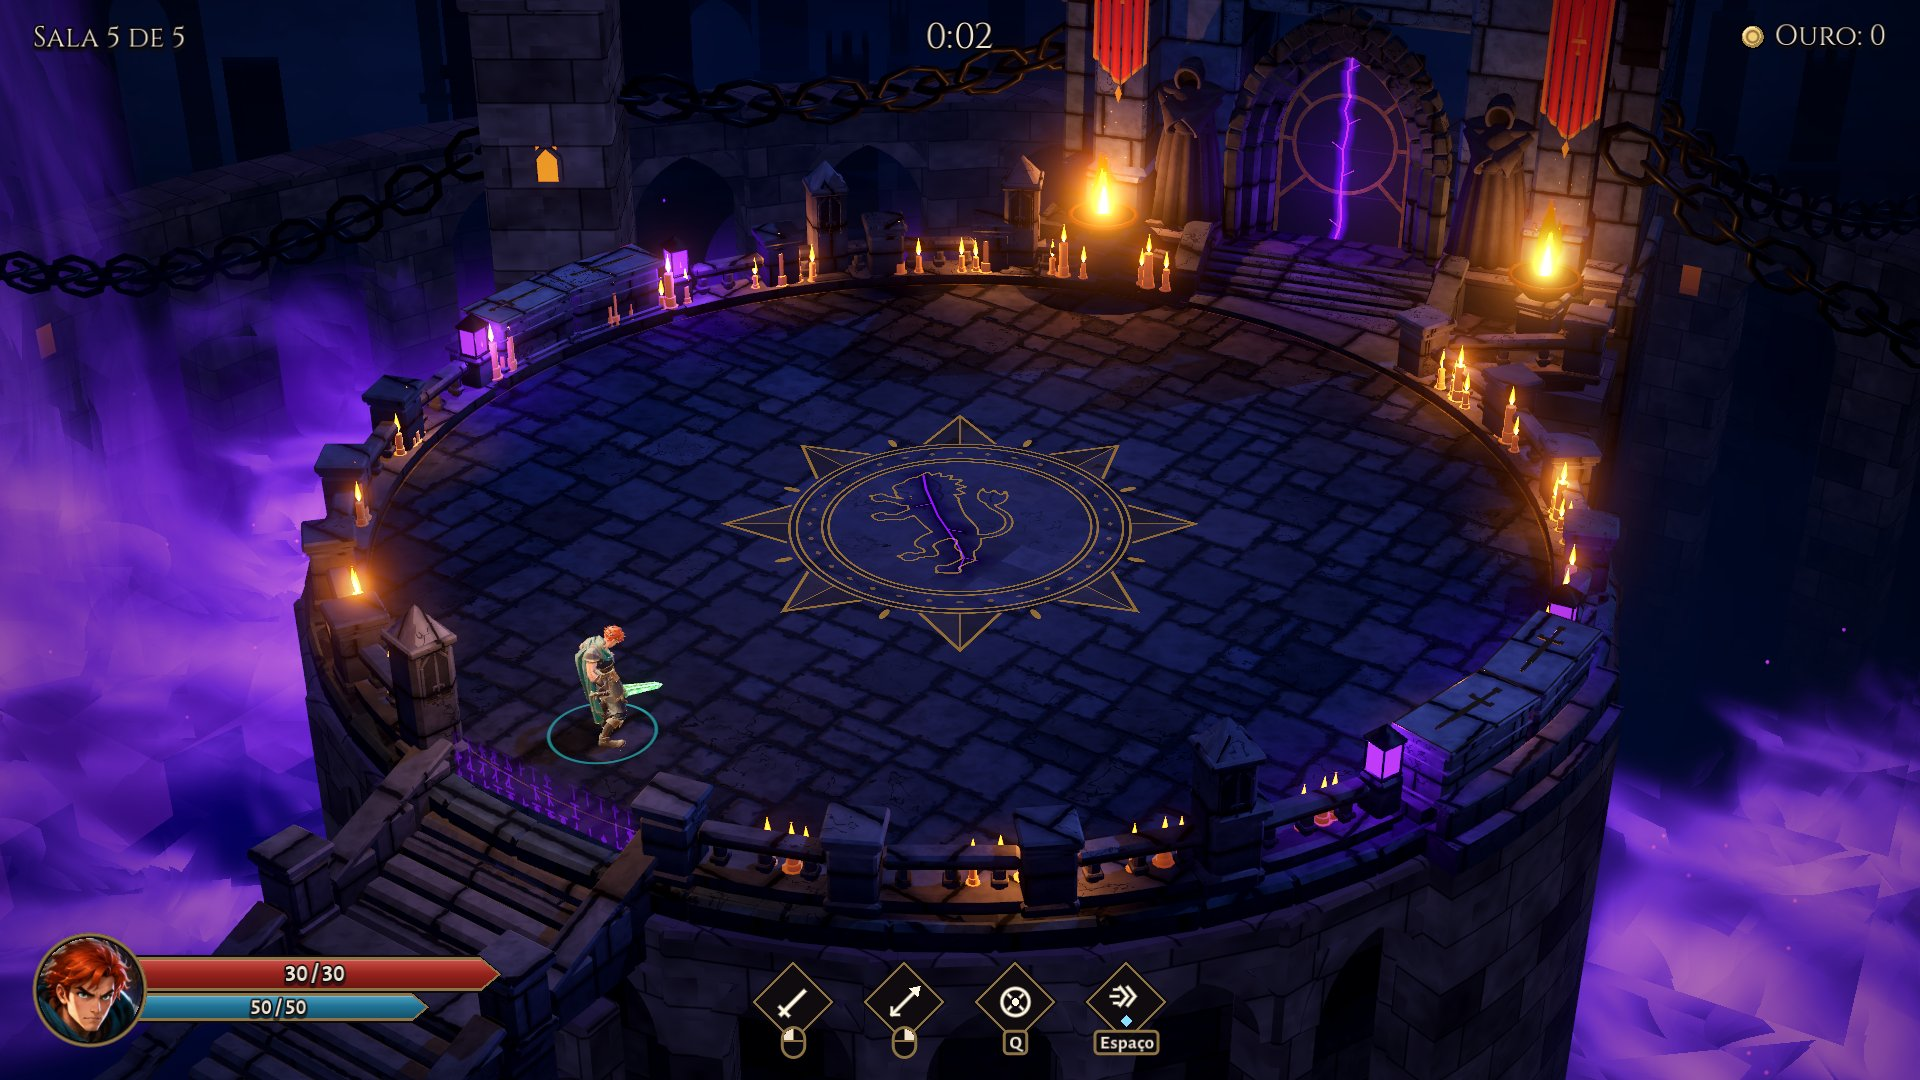
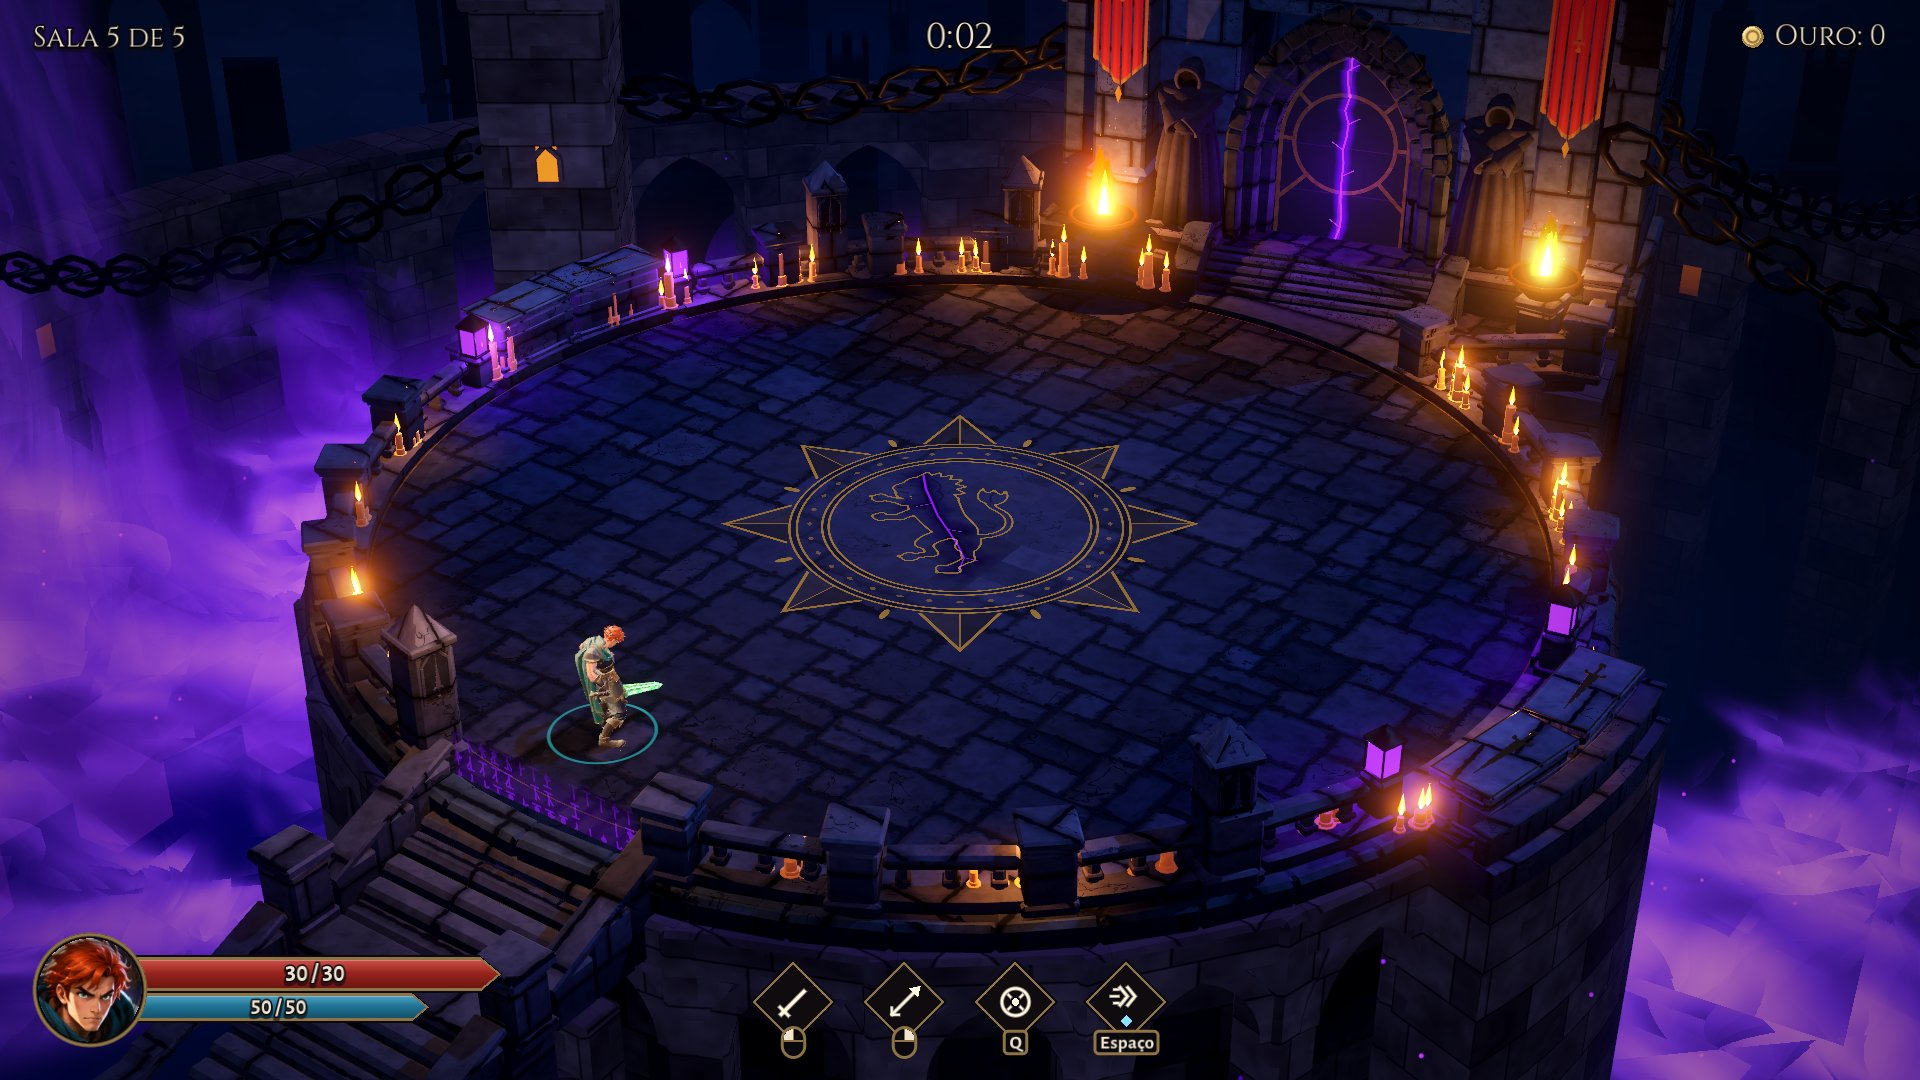
Final fixes: Morvath no longer turns white while burning (the hit flash sent the elite outline to white through his torn robe, every burn tick re-flashed, and fire rim stacked on the cold and crown rims); hero no longer seems to stand on the near sarcophagi and front candles (near niche set back and

diff --git a/CLAUDE.md b/CLAUDE.md
@@ -360,7 +360,18 @@ worktree). Tarefa pequena o Game Director faz direto. Protocolo completo: `docs/
   amarela sobre o selo. Nada fica dentro do círculo de 12,5 m (testado por vértice em `tests/test_chamber_look.gd`);
   o arco da frente abre em pontilhado em volta do herói e de Morvath (`see_through` com `boss_pos`). Laboratório:
   `tools/chamber_lab.gd` (comando no topo; `--state=`, `--phase=`, `--hero`, `--boss`, `--showcase`, `--hall`,
-  `--measure=`). Capturas: `docs/gallery/boss_arena/work/chamber_*.jpg`. Morvath: lanes
+  `--measure=`). Capturas: `docs/gallery/boss_arena/work/chamber_*.jpg`. Correções antes do teste do Daniel
+  (`work/fix_*`): o par de sarcófagos na metade da borda perto da câmera (`NEAR_HALF`, o leste) recua 0,9 m com o nicho,
+  baixo como na spec (`NEAR_SARC`) e com a pedra em pontilhado em volta do herói (`_see_through`), e as velas do arco da
+  frente ficam encostadas nos balaústres e mais baixas (`CANDLE_FRONT_R`, `CANDLE_FRONT_MAX` 0,28): o herói na borda não
+  parece mais em pé sobre a tampa nem sobre as velas; pilaretes da frente com furo menor e mais pedra (`PINNACLE_SEE`)
+  para continuarem lá atrás dele; a espada erguida (sarcófagos, pilaretes, porta: `_sword`, `SWORD_*`; estandartes:
+  `ArenaKit.BANNER_SWORD_WIDTH`) com lâmina larga afinando até a ponta, guarda curta e fina, punho fino e pomo, nunca cruz;
+  a rachadura fecha a partir de `SealLook.HEAL_FROM` (veios de volta, 2,3 s) e some por inteiro antes da calma
+  (`tests/test_seal_victory.gd`). Queimadura (M-1): o tique de fogo não pisca o corpo (`Horde.damage(..., flash = false)`),
+  o contorno de elites e de Morvath não vai mais a branco 3,0 no pisca (`flash_color` no `crowd_outline.gdshader`; no
+  manto aberto de Morvath o contorno de trás aparecia em manchas brancas) e a borda de fogo substitui a borda fria e a da
+  coroa enquanto queima (`crowd.gdshader`); testes em `tests/test_burn_flash.gd`. Morvath: lanes
   recortadas na borda (`Boss._lane`), meias-luas se desfazem `BossDef.soul_overrun` (0,3 m) além da borda, investida só com
   `dash_min_free` (8 m) livres e parando na borda, invocações com a runa inteira no chão (`summon_ring`, `summon_clear`,
   `ritual_ring` no `BossDef`), fases 3 e 4 abertas do meio (`center_phases`), erupções pelo `FloorShape`. Avisos dele com
